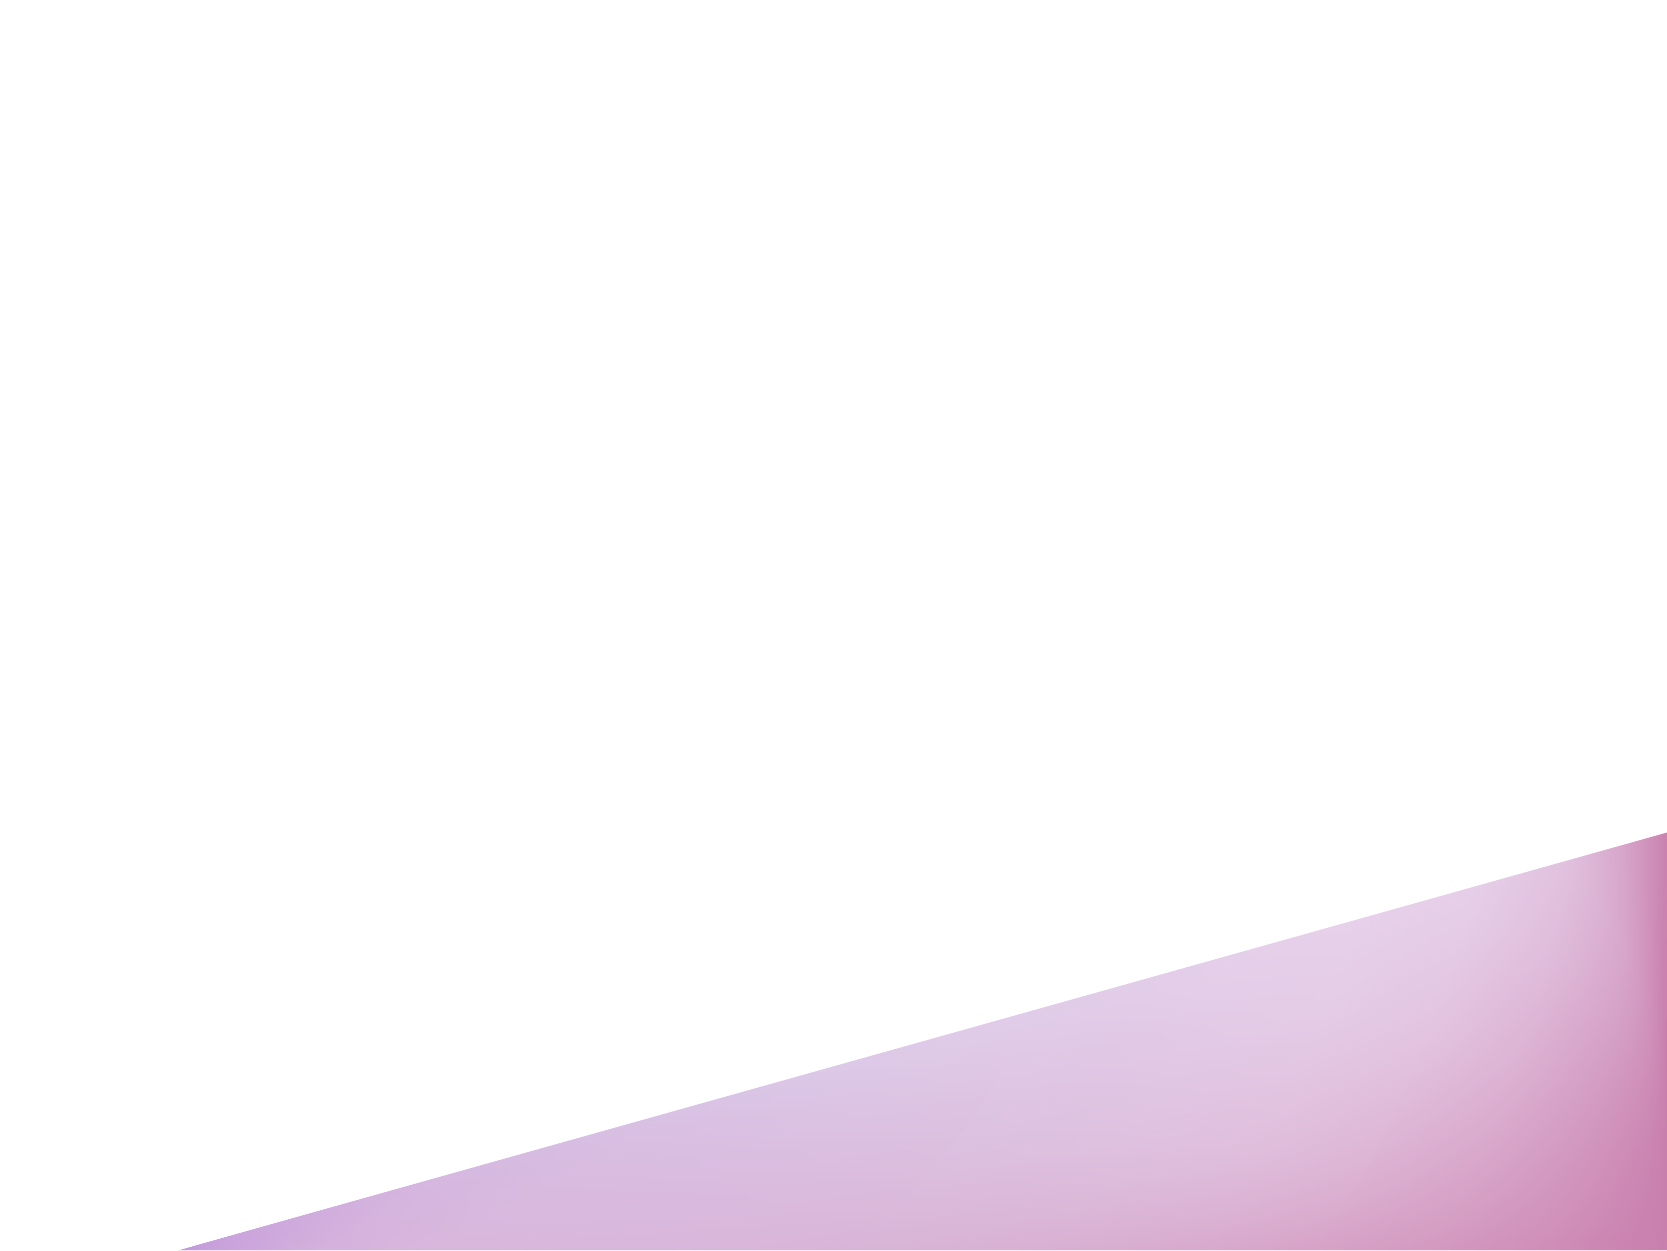
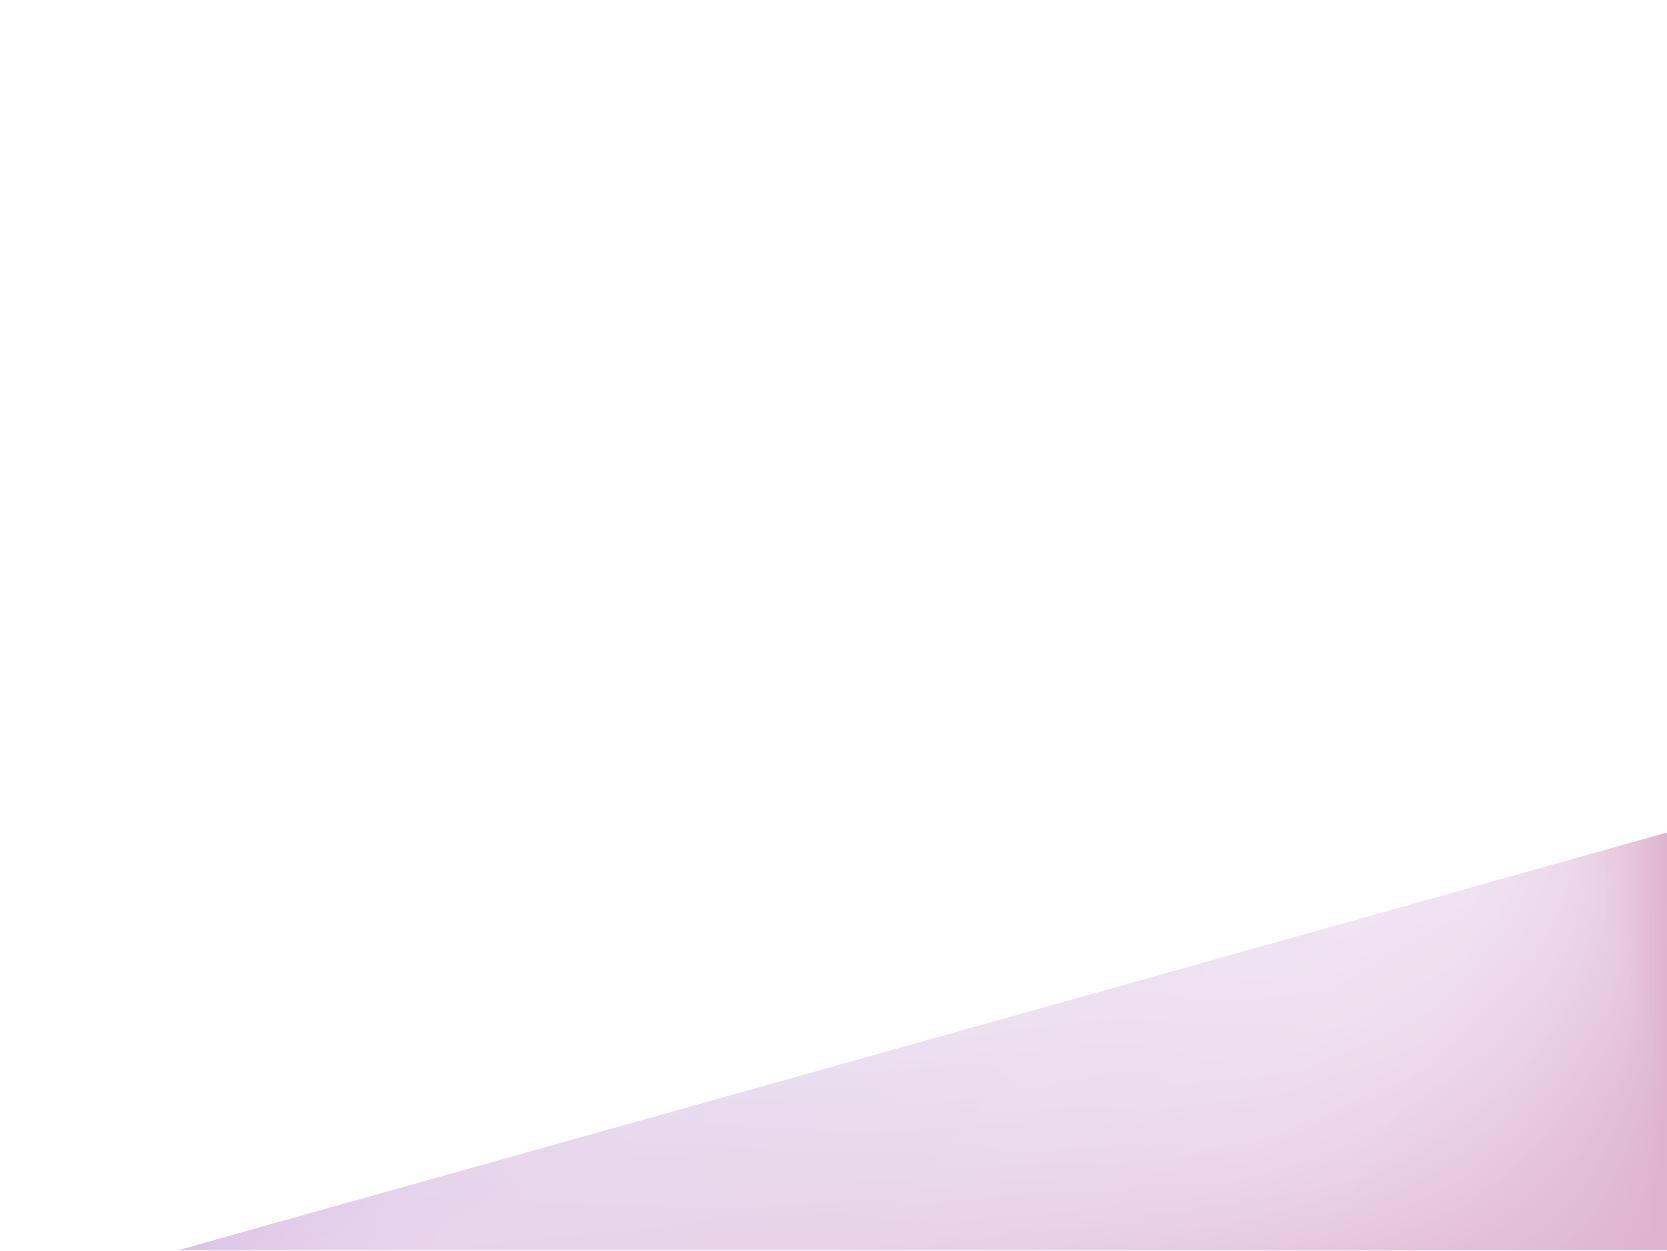
画像差し替え

Changed region(s): [[0.0936, 0.6547, 1.0, 1.0]]

diff --git a/frontend/src/styles/Home.module.scss b/frontend/src/styles/Home.module.scss
@@ -1,5 +1,5 @@
 .homeContainer {
-  background-image: url("/background.png");
+  background-image: url("/background-12.png");
   background-size: cover;
 }
 
